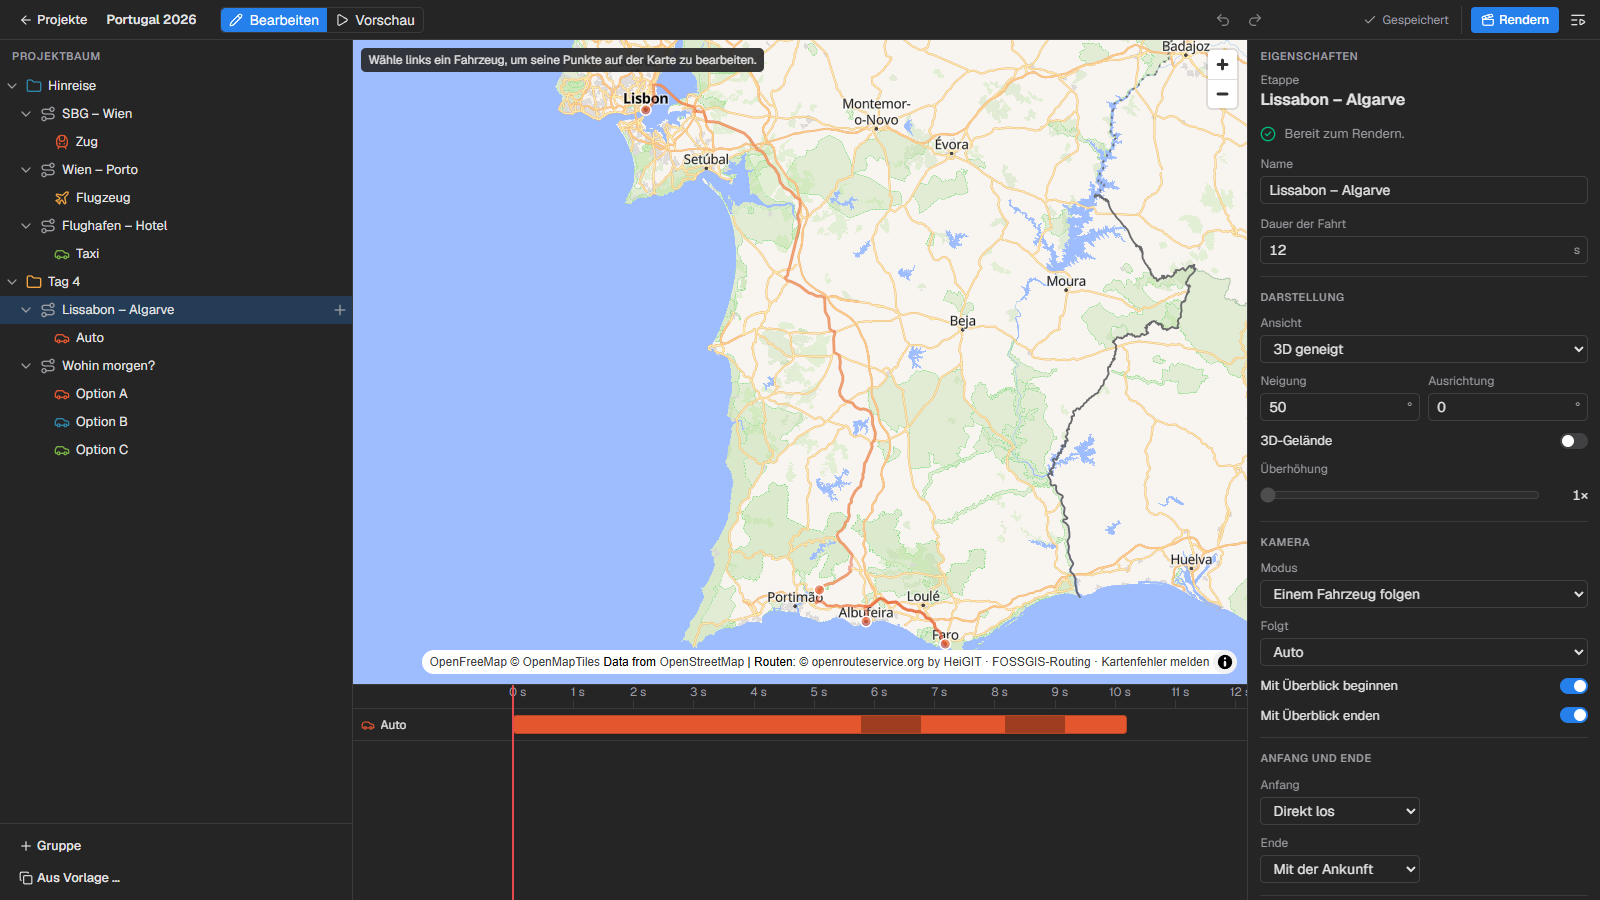
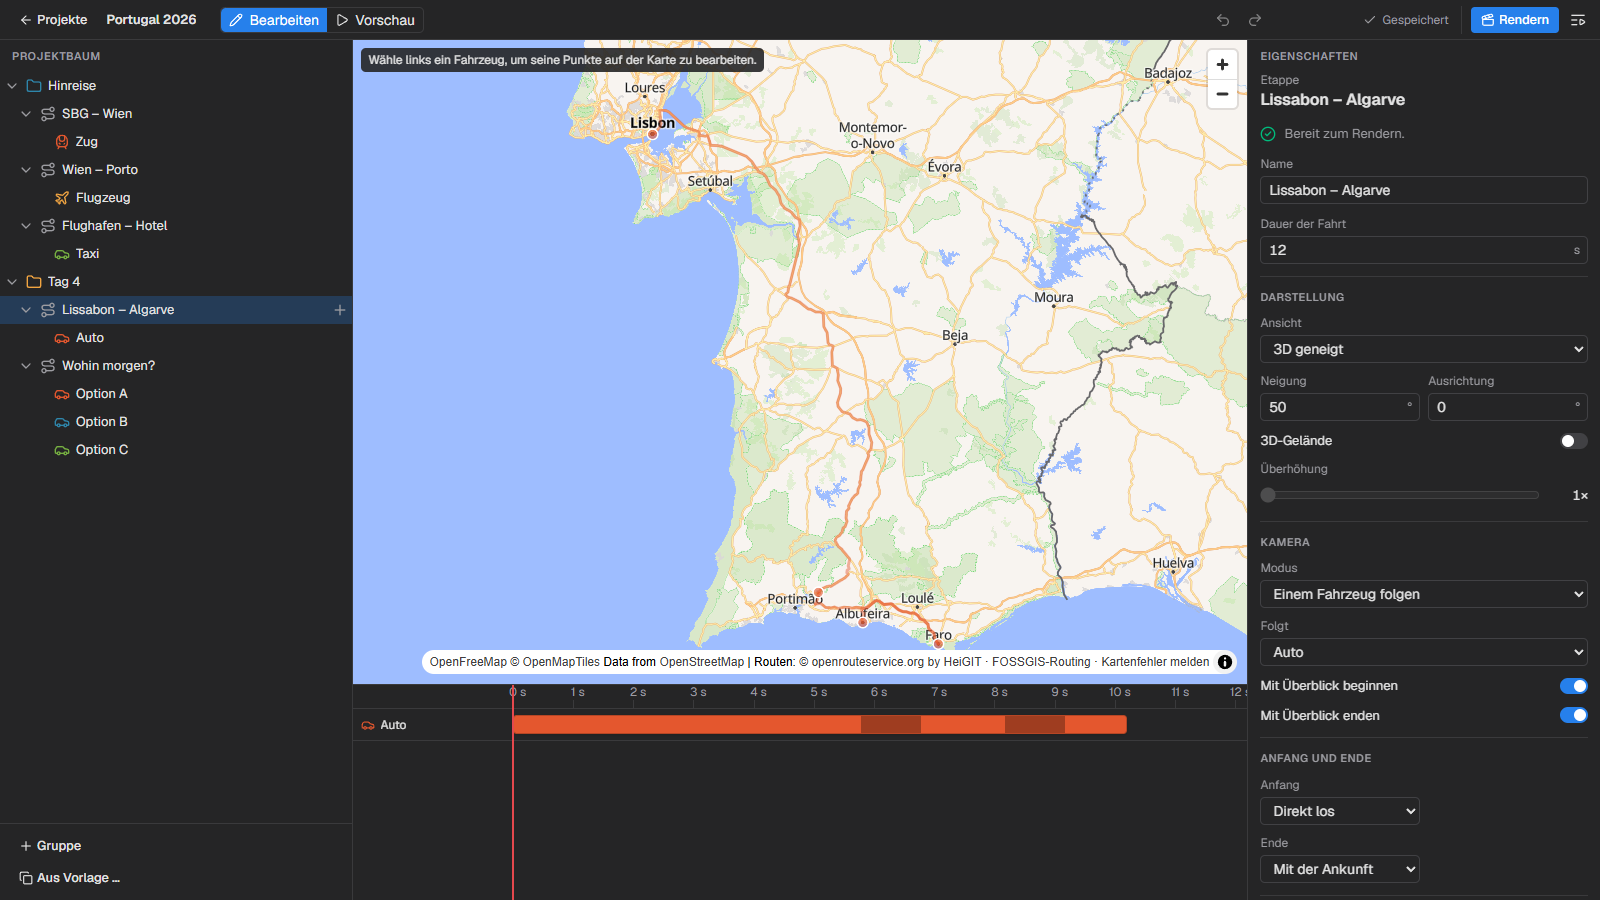
chore: release 1.2.0
Versions, changelog and a README picture of the overlay kit.

Changed region(s): [[0.3438, 0.0311, 0.7812, 0.7156]]

diff --git a/e2e/tests/screenshots.spec.ts b/e2e/tests/screenshots.spec.ts
@@ -36,4 +36,22 @@ test('editor pictures for the README', async ({ page }) => {
   await page.getByRole('region', { name: 'Timeline' }).getByText('5 s', { exact: true }).click();
   await settle(page);
   await page.screenshot({ path: resolve(MEDIA, 'preview.png') });
+
+  // The overlay kit (1.2.0): the Algarve drive in the Sport style with a title and the flag of
+  // the country, the list of blocks next to it. Changed in the test's copy of the example only.
+  await tree.getByText('Lissabon – Algarve', { exact: true }).click();
+  await expect(page.getByText('Vorschau wird geladen …')).toHaveCount(0, { timeout: 60_000 });
+  const inspector = page.getByRole('region', { name: 'Eigenschaften' });
+  const style = inspector.getByRole('region', { name: 'Stil der Einblendungen' });
+  await style.getByLabel('Stil', { exact: true }).selectOption({ label: 'Sport' });
+  const blocks = inspector.getByRole('region', { name: 'Bausteine' });
+  await blocks.getByLabel('Baustein hinzufügen').selectOption({ label: 'Länderflagge' });
+  await blocks.getByLabel('Position').selectOption({ label: 'Oben rechts' });
+  await blocks.getByLabel('Baustein hinzufügen').selectOption({ label: 'Text' });
+  await blocks.getByLabel('Text', { exact: true }).fill('Tag 5 · Algarve');
+  await blocks.getByLabel('Text', { exact: true }).press('Enter');
+  await blocks.scrollIntoViewIfNeeded();
+  await page.getByRole('region', { name: 'Timeline' }).getByText('8 s', { exact: true }).click();
+  await settle(page);
+  await page.screenshot({ path: resolve(MEDIA, 'overlays.png') });
 });

diff --git a/CHANGELOG.md b/CHANGELOG.md
@@ -3,11 +3,13 @@
 All notable changes to this project are documented here. The format follows
 [Keep a Changelog](https://keepachangelog.com/en/1.1.0/), and the project uses
 [Semantic Versioning](https://semver.org/). Project files carry their own `schemaVersion`
-(currently 7); older files are migrated when they are opened.
+(currently 9); older files are migrated when they are opened.
 
-## [Unreleased]
+## [1.2.0] - 2026-11-17
 
-Coming with 1.2.0 (modules M16 to M18).
+Measured data from watches and apps, an overlay kit to place and style every value, and the
+values for your own design in the edit. (There is no 1.1.0: the three modules come as one
+release.)
 
 ### Added
 
@@ -33,6 +35,16 @@ Coming with 1.2.0 (modules M16 to M18).
 
 - Project files are format 9; older files are migrated when they are opened, and their
   counters, profile and title become blocks in the same places with the same look.
+- A counting box has its final width from the start instead of growing with every digit.
+- Own map themes and overlay styles share one file store on the server.
+
+### How it got here
+
+| Module                         | Pull request | Merged     |
+| ------------------------------ | ------------ | ---------- |
+| M16 Measured data from watches | #26          | 2026-11-16 |
+| M17 Overlay kit                | #27          | 2026-11-17 |
+| M18 Data for the edit          | #28          | 2026-11-17 |
 
 ## [1.0.1] - 2026-11-15
 
@@ -113,5 +125,6 @@ Built module by module, one pull request each, from 20 October to 15 November 20
 | M14 Import, pins and templates     | #22           | 2026-11-15 |
 | M15 Portfolio polish and release   | #23, #24      | 2026-11-15 |
 
+[1.2.0]: https://github.com/NihadCommits/travel-route-animator/releases/tag/v1.2.0
 [1.0.1]: https://github.com/NihadCommits/travel-route-animator/releases/tag/v1.0.1
 [1.0.0]: https://github.com/NihadCommits/travel-route-animator/releases/tag/v1.0.0

diff --git a/README.md b/README.md
@@ -65,6 +65,8 @@ Travel Route Animator turns a trip into map animations for travel videos: a trai
 
 ![The preview of a flight to Porto over the globe, with the timeline below](.github/media/preview.png)
 
+![The overlay kit: a drive through the Algarve in the Sport style with a title, the flag of Portugal and a row of counters, the list of blocks beside it](.github/media/overlays.png)
+
 ### How it works
 
 ```mermaid
@@ -293,7 +295,7 @@ Travel Route Animator verwandelt eine Reise in Kartenanimationen für Reisevideo
 
 ### Screenshots
 
-Die Bilder oben im englischen Teil zeigen den Editor (Projektbaum, Route auf der Bearbeitungskarte, Eigenschaften, Timeline) und die Vorschau eines Flugs nach Porto über den Globus.
+Die Bilder oben im englischen Teil zeigen den Editor (Projektbaum, Route auf der Bearbeitungskarte, Eigenschaften, Timeline), die Vorschau eines Flugs nach Porto über den Globus und den Einblendungen-Baukasten (Algarve-Fahrt im Stil „Sport“ mit Titel, Portugal-Flagge und Zählerreihe, daneben die Bausteinliste).
 
 ### Wie es funktioniert
 
